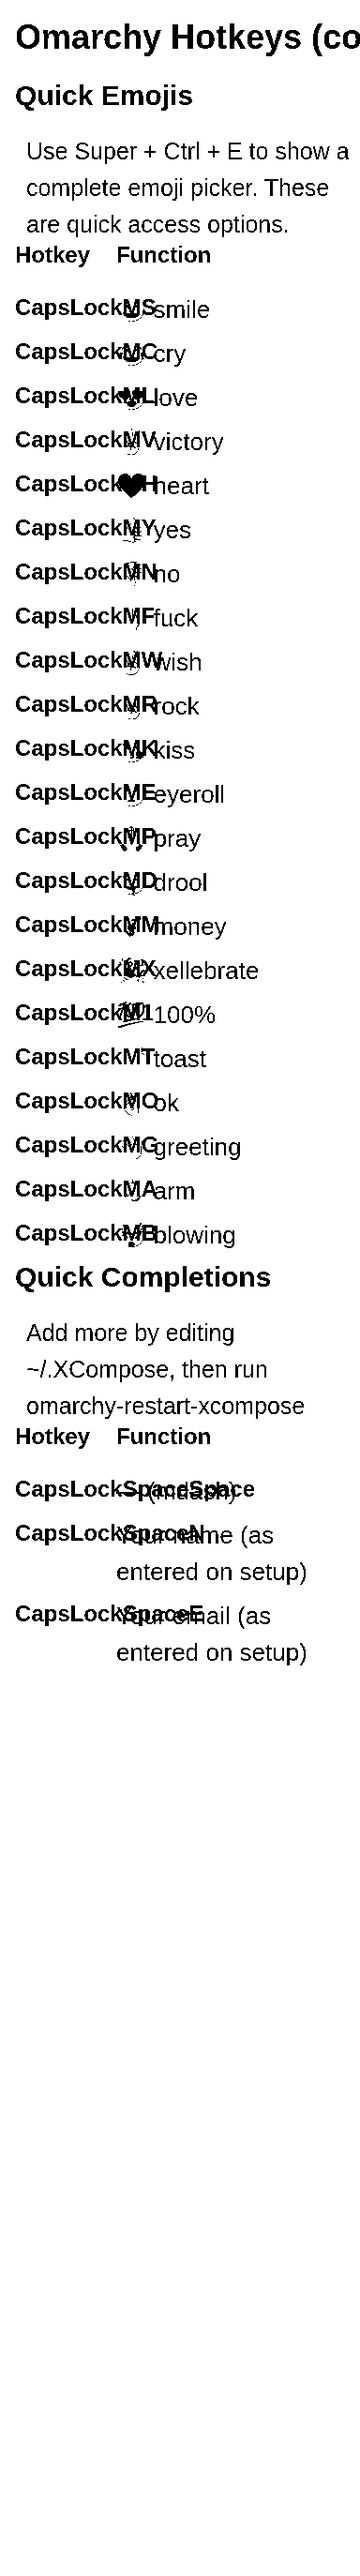
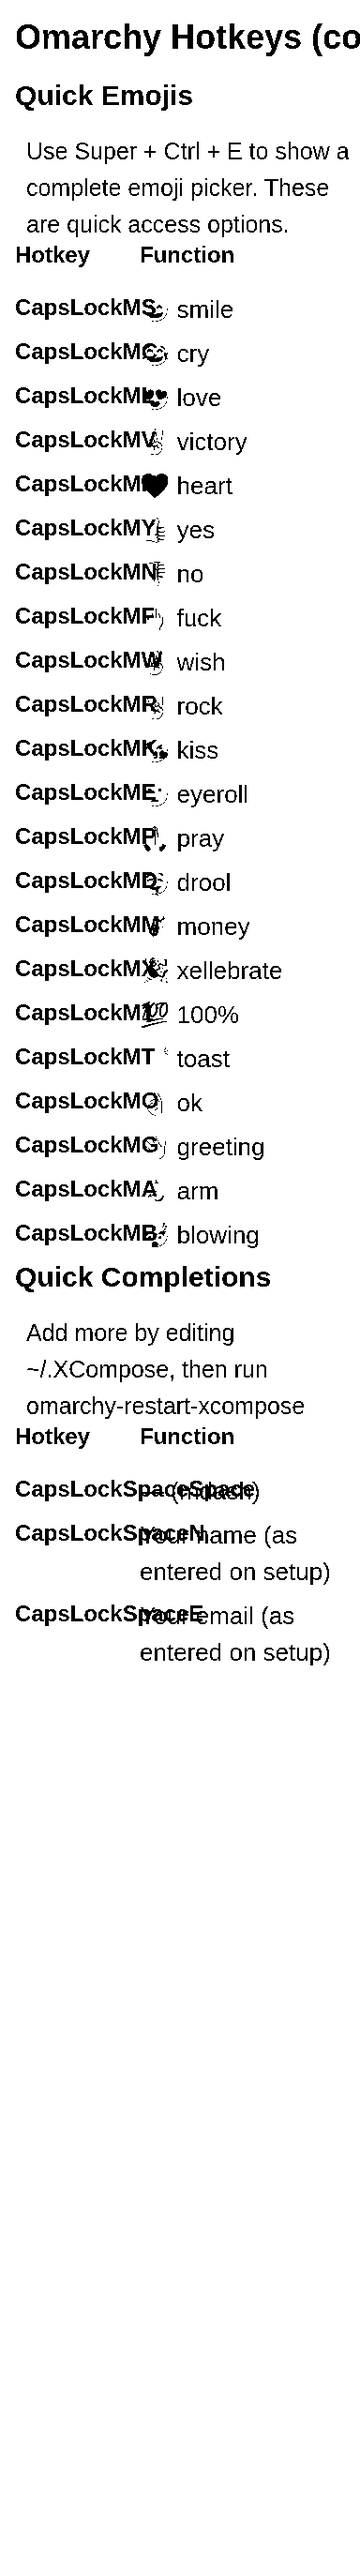
fix: Widen key column to prevent overlap with larger fonts
- Increase key column width from 28% to 35% of content width
- Prevents keys and descriptions from overlapping on same line
- Maintains proper spacing with 26px text and 24px key fonts

diff --git a/scripts/generate-png.ts b/scripts/generate-png.ts
@@ -180,8 +180,8 @@ async function generatePNGForSections(
 
     if (section.hotkeys && section.hotkeys.length > 0) {
       // Calculate table dimensions
-      // Reduce key column since abbreviations are much shorter
-      const keyColWidth = Math.floor(contentWidth * 0.28);
+      // Wider key column to prevent overlap with larger fonts
+      const keyColWidth = Math.floor(contentWidth * 0.35);
       const funcColWidth = contentWidth - keyColWidth - COL_SPACING;
 
       // Header row
@@ -256,8 +256,8 @@ async function generatePNGForSections(
     }
 
     if (section.hotkeys && section.hotkeys.length > 0) {
-      // Reduce key column since abbreviations are much shorter
-      const keyColWidth = Math.floor(contentWidth * 0.28);
+      // Wider key column to prevent overlap with larger fonts
+      const keyColWidth = Math.floor(contentWidth * 0.35);
       const funcColWidth = contentWidth - keyColWidth - COL_SPACING;
       const tableStartX = PADDING;
 
